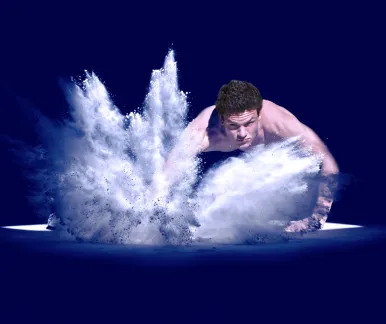
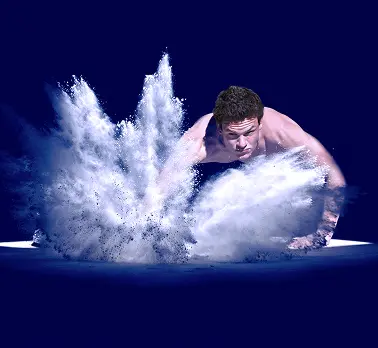
games tablet

Changed region(s): [[0.0, 0.1235, 0.9894, 0.7716], [0.6111, 0.7099, 0.6402, 0.7716]]

diff --git a/source/sass/blocks/games.scss b/source/sass/blocks/games.scss
@@ -2,7 +2,7 @@
   padding: 100px 0 60px;
 
   @include vp-1365 {
-    padding: 100px 0 60px;
+    padding: 60px 0 60px;
   }
 
   @include vp-767 {
@@ -15,7 +15,9 @@
   grid-template-columns: 500px 1fr;
 
   @include vp-1365 {
-    grid-template-columns: 291px 1fr;
+    width: 678px;
+    padding: 0;
+    grid-template-columns: 300px 1fr;
   }
 }
 
@@ -29,9 +31,9 @@
   background-color: $color-main-contrast;
 
   @include vp-1365 {
-    width: 293px;
-    padding: 41px 45px 45px;
-    gap: 6px 39px;
+    width: 300px;
+    padding: 40px 45px 40px 40px;
+    gap: 10px 13px;
   }
 
   @include vp-767 {
@@ -56,9 +58,10 @@
   }
 
   @include vp-1365 {
-    font-size: 48px;
-    line-height: 46px;
-    letter-spacing: 1.44px;
+    margin: 0 0 0 0;
+    font-size: 46px;
+    line-height: 54px;
+    letter-spacing: 1px;
     width: 106px;
   }
 
@@ -85,6 +88,7 @@
     width: 202px;
     grid-column: 1 / 3;
     grid-row: 2 / 3;
+    line-height: 24px;
   }
 
   @include vp-767 {
@@ -109,7 +113,7 @@
   }
 
   @include vp-1365 {
-    width: 56px;
+    width: 100px;
     grid-column: 2 / 3;
     grid-row: 1 / 2;
   }
@@ -126,7 +130,7 @@
   }
 
   @include vp-1365 {
-    margin-top: 15px;
+    margin-top: -1px;
   }
 
   @include vp-767 {
@@ -139,7 +143,7 @@
 
   @include vp-1365 {
     display: block;
-    width: 386px;
+    width: 378px;
 
     picture {
       display: block;

diff --git a/source/index.html b/source/index.html
@@ -209,9 +209,9 @@
             </div>
             <div class="games__image">
               <picture>
-                <source media="(max-width: 767px)" srcset="img/crossfit-games-mobile-1x.jpg 1x, img/crossfit-games-mobile-2x.jpg 2x" width="290" height="292" type="image/webp">
-                <source media="(max-width: 1365px)" srcset="img/crossfit-games-tablet-1x.jpg 1x, img/crossfit-games-tablet-2x.jpg 2x" width="386" height="324" type="image/webp">
-                <img src="img/crossfit-games-1x.jpg" srcset="img/crossfit-games-2x.jpg" width="660" height="401" alt="Мужчина выполняющий упражнение.">
+                <source media="(max-width: 767px)" srcset="img/crossfit-games-mobile-1x.webp 1x, img/crossfit-games-mobile-2x.webp 2x" width="290" height="292" type="image/webp">
+                <source media="(max-width: 1365px)" srcset="img/crossfit-games-tablet-1x.webp 1x, img/crossfit-games-tablet-2x.webp 2x" width="378" height="348" type="image/webp">
+                <img src="img/crossfit-games-1x.webp" srcset="img/crossfit-games-2x.webp" width="660" height="401" alt="Мужчина выполняющий упражнение.">
               </picture>
             </div>
           </div>

diff --git a/source/sass/blocks/games-card.scss b/source/sass/blocks/games-card.scss
@@ -26,11 +26,13 @@
 
   @include vp-1365 {
     line-height: 22px;
-    margin: 3px 0 0;
+    margin: 4px 0 0;
+    padding: 0 0 2px 0;
   }
 
   @include vp-767 {
     margin: 2px 0 0;
+
     font-size: 16px;
     line-height: 20px;
   }
@@ -49,9 +51,10 @@
   // border-top: 1px solid $color-default-white;
 
   @include vp-1365 {
+    align-items: center;
     font-size: 24px;
     line-height: 24px;
-    padding-top: 2px;
+    padding-top: 3px;
   }
 
   @include vp-767 {
@@ -68,9 +71,10 @@
   line-height: 22px;
 
   @include vp-1365 {
-    font-size: 10px;
-    line-height: 10px;
+    font-size: 14px;
+    line-height: 22px;
     width: 30px;
-    padding: 3px 0 0 3px;
+    margin: 0 0 0 0;
+    padding: 0 0 0 5px;
   }
 }
